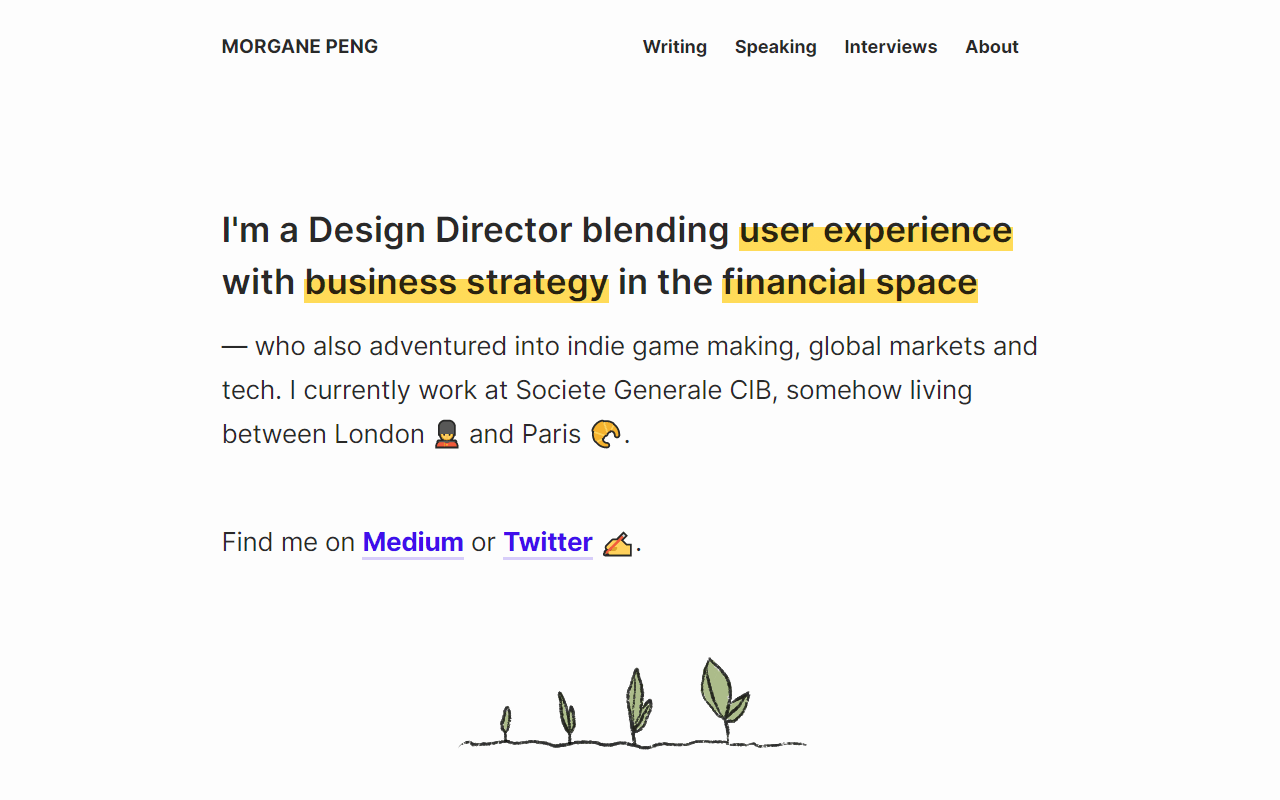
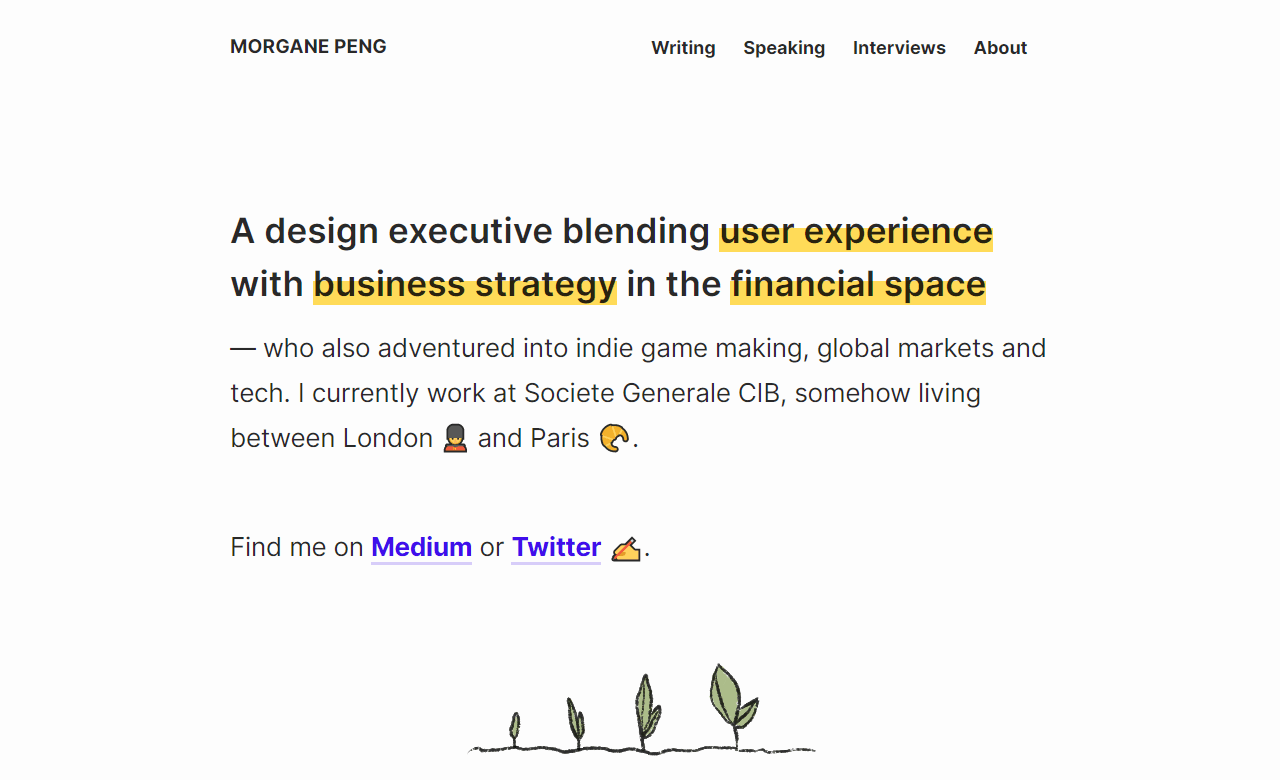
metadata update

diff --git a/index.html b/index.html
@@ -4,8 +4,8 @@
   <title>Morgane Peng</title>
   <meta charset="utf-8"  lang="en">
   <meta name="viewport" content="width=device-width, initial-scale=1, shrink-to-fit=no">
-  <meta name="description" content="A Design Director blending user experience with business strategy in the financial space — who previously adventured into indie game making, financial markets and tech.">
-  <meta name="keywords" content="Design Director,UX,User Experience,Interaction Design,Agile,Design Thinking,Lean,Data Visualisation,Prototype,Sketching,RPG,Derivatives,Structured Products,Investment Banking,Financial Markets,Valuation,Electronic Trading">
+  <meta name="description" content="A design executive blending blending user experience with business strategy in the financial space — who previously adventured into indie game making, financial markets and tech.">
+  <meta name="keywords" content="Design executive,Design Director,UX,User Experience,Interaction Design,Agile,Design Thinking,Lean,Data Visualisation,Prototype,Sketching,RPG,Derivatives,Structured Products,Investment Banking,Financial Markets,Valuation,Electronic Trading">
   <meta name="author" content="Morgane Peng">
   <meta http-equiv="x-ua-compatible" content="ie=edge">
   <meta name="viewport" content="width=device-width, initial-scale=1.0">
@@ -38,7 +38,7 @@
 </div>
 
 <div class="container_md my_8">
-  <h1 class="display mb_0">A Design Executive blending <span class="highlight">user experience</span> with <span class="highlight">business strategy</span> in the <span class="highlight">financial space</span></h1>
+  <h1 class="display mb_0">A design executive blending <span class="highlight">user experience</span> with <span class="highlight">business strategy</span> in the <span class="highlight">financial space</span></h1>
   <p class="lead mb_4"> — who also adventured into indie game making, global markets and tech. I currently work at Societe Generale CIB, somehow living between London 💂 and Paris 🥐.</p>
   <p class="lead">Find me on <a href="https://medium.com/@morganepeng">Medium</a> or <a href="https://twitter.com/morganepeng">Twitter</a> ✍.</p>
   <div class="text_center">
